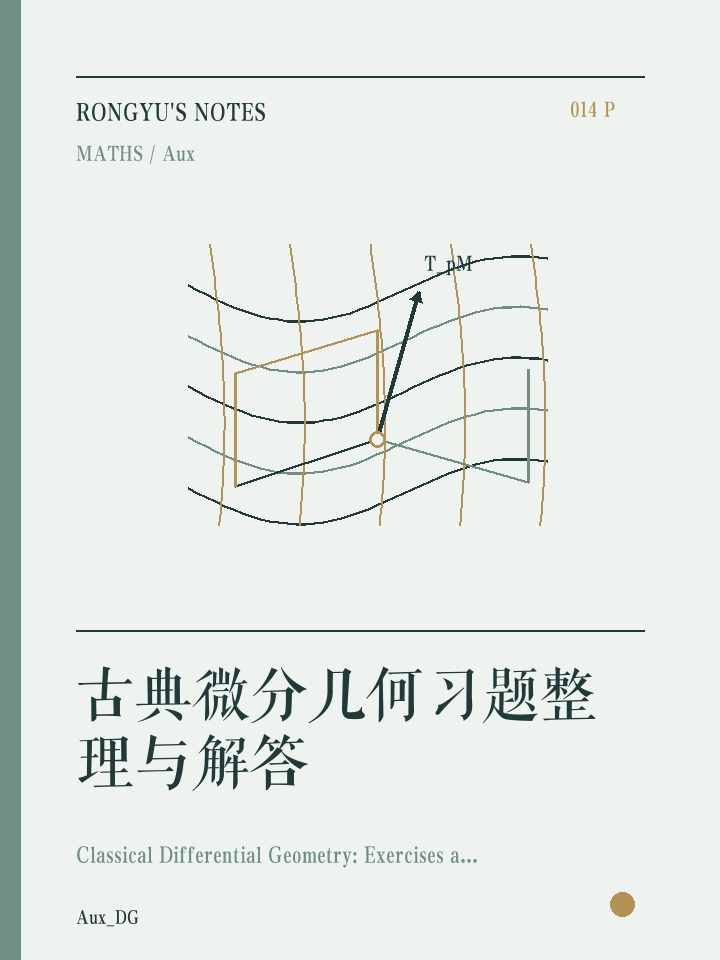
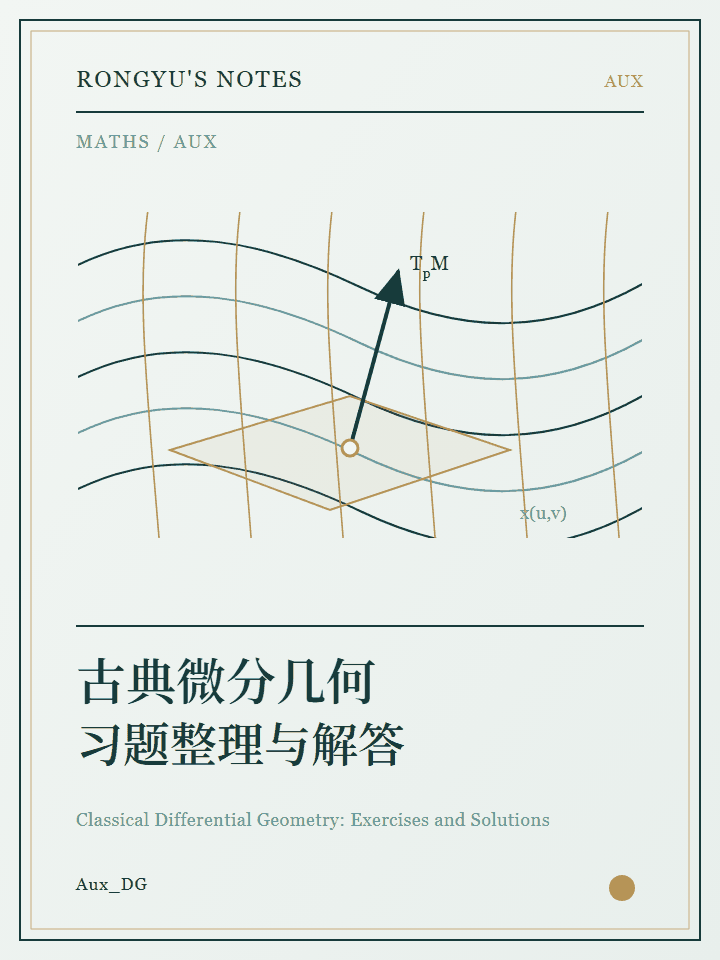
feat: add vector covers for new exercise lectures

diff --git a/src/data/lectures.ts b/src/data/lectures.ts
@@ -23,6 +23,8 @@ export interface Lecture {
 
 export const lectures: Lecture[] = lectureRecords as Lecture[];
 
+const VECTOR_LECTURE_COVERS = new Set(["Aux_DG.pdf", "Aux_TH.pdf"]);
+
 export const lectureKindLabels: Record<LectureKind, string> = {
   Stu: "学习讲义",
   Lec: "课程讲义",
@@ -48,7 +50,8 @@ export function lectureViewerUrl(lecture: Lecture): string {
 }
 
 export function lectureCoverUrl(lecture: Lecture): string {
-  return `/images/lectures/${lecture.fileName.replace(/\.pdf$/i, "")}.png`;
+  const extension = VECTOR_LECTURE_COVERS.has(lecture.fileName) ? "svg" : "png";
+  return `/images/lectures/${lecture.fileName.replace(/\.pdf$/i, "")}.${extension}`;
 }
 
 export function lectureShareUrl(lecture: Lecture): string {
